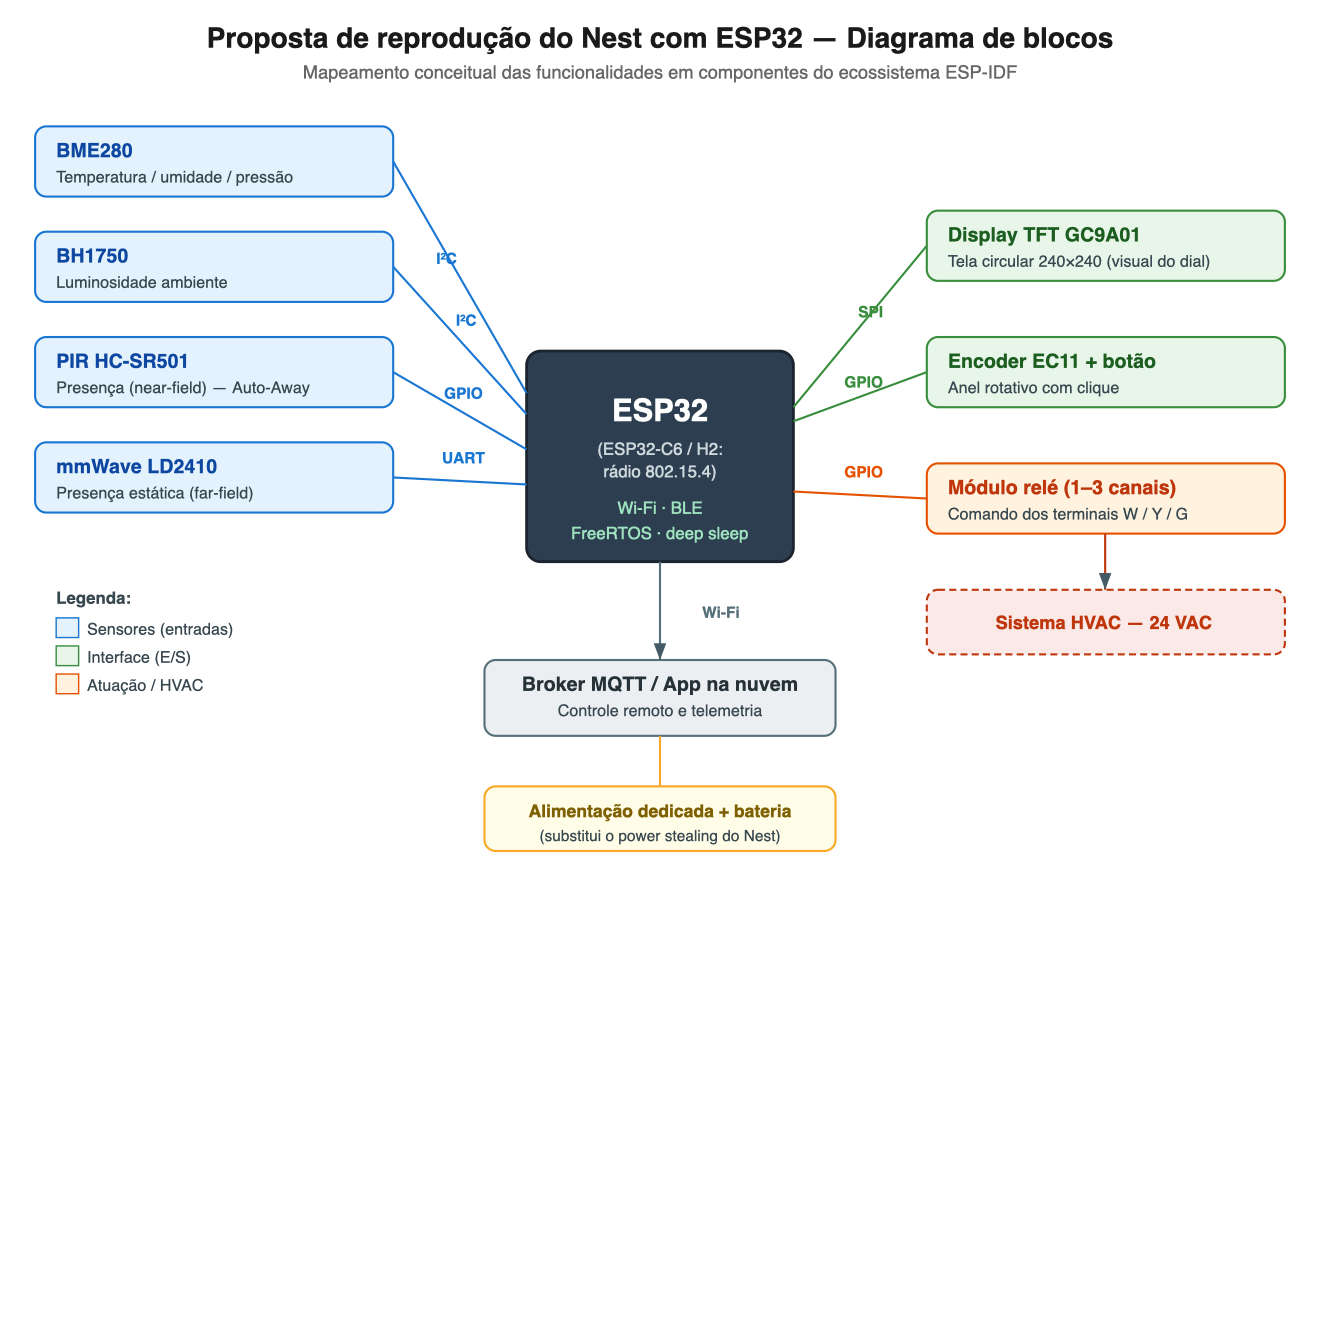
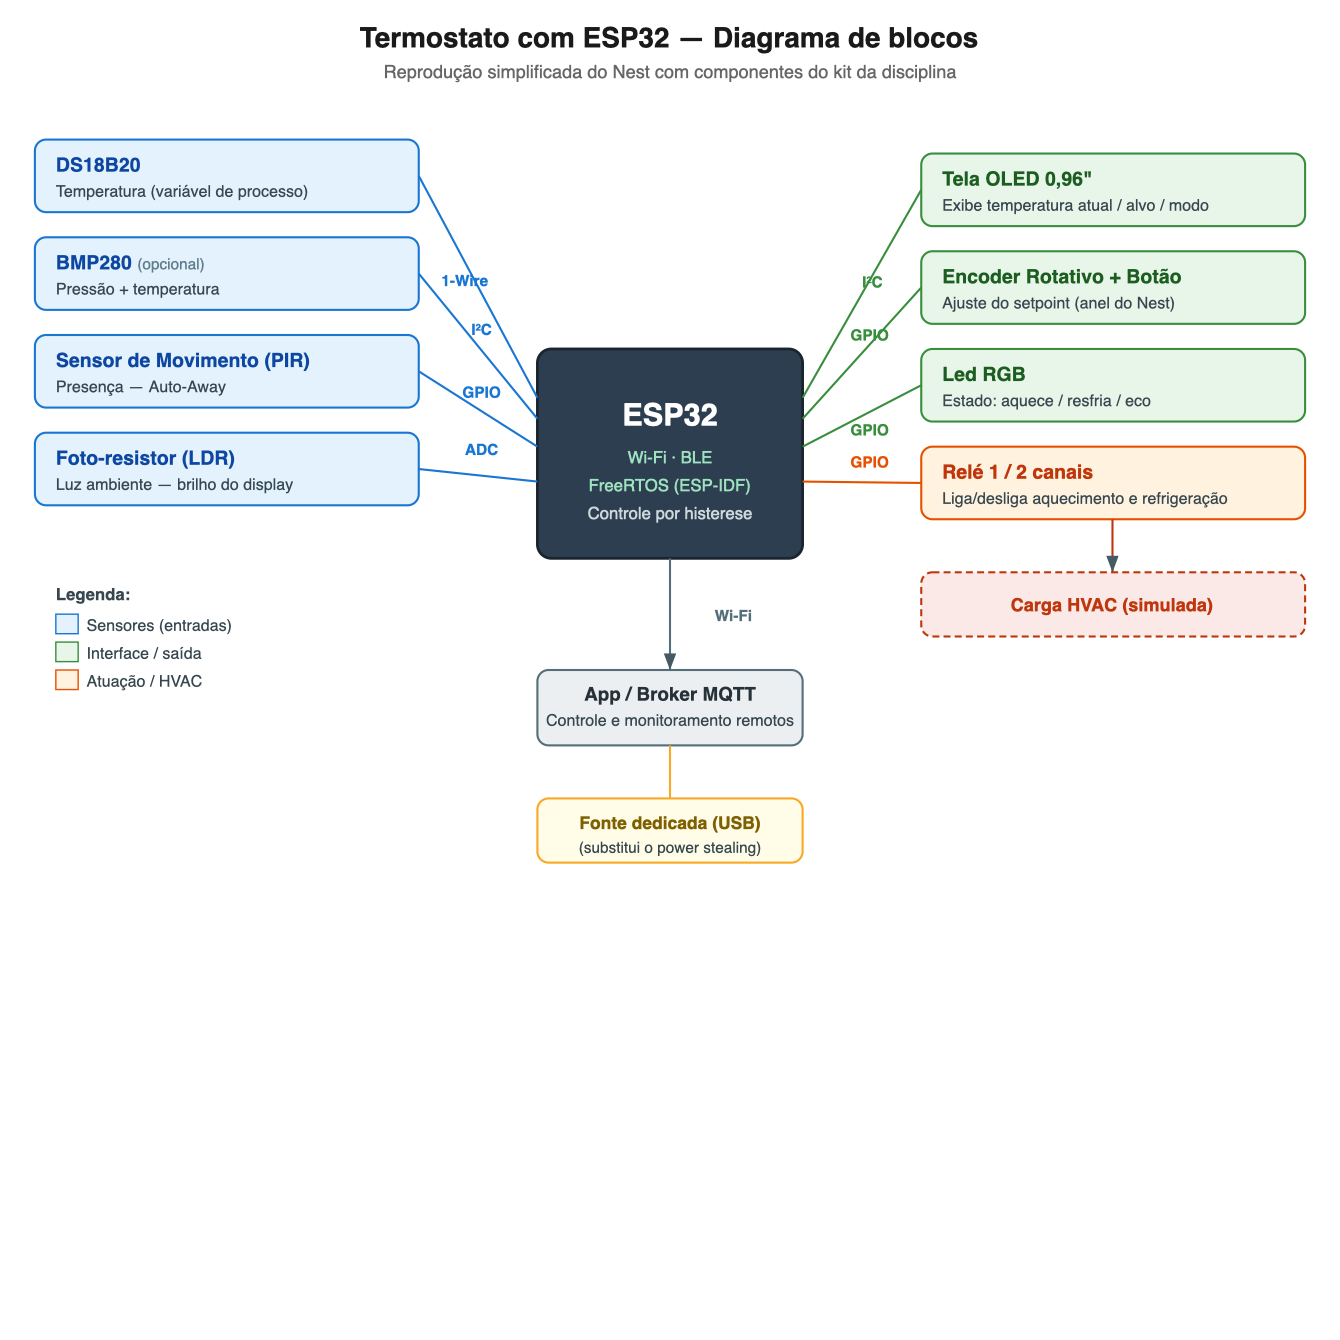
Readequa proposta ESP32 aos componentes do kit da disciplina
Substitui os componentes da Secao 3 pelos disponiveis na Lista de
Sensores do Trabalho (DS18B20, BMP280, encoder rotativo, OLED 0,96",
rele, PIR, LDR, LED RGB), adiciona a logica de funcionamento por
histerese/Auto-Away, atualiza o diagrama de blocos e os datasheets.

diff --git a/trabalho2/termostato-nest/README.md b/trabalho2/termostato-nest/README.md
@@ -116,35 +116,52 @@ A análise dos *teardowns* públicos (iFixit, SparkFun, IHS Markit) revela uma *
 
 ### Visão geral
 
-As funcionalidades centrais do Nest — sensoriamento ambiental, detecção de presença, interface por anel rotativo, controle do HVAC e conectividade — podem ser recriadas conceitualmente com uma **ESP32** e periféricos do ecossistema **ESP-IDF**.
+As funcionalidades centrais do Nest — leitura de temperatura, ajuste por anel rotativo, controle liga/desliga do HVAC, detecção de presença e conectividade — podem ser recriadas de forma **simples e funcional** com uma **ESP32** (ecossistema **ESP-IDF**) e componentes **disponíveis no laboratório da disciplina**. O objetivo não é copiar o Nest fielmente, mas reproduzir o seu comportamento essencial — um **termostato com setpoint, controle por histerese, modo de ausência e interface giratória** — com peças simples.
 
-### Mapeamento funcionalidade → componente
+> Todos os componentes da tabela abaixo pertencem à *Lista de Sensores e Atuadores* disponibilizada para o Trabalho.
 
-| Funcionalidade do Nest | Componente proposto (ESP32) | Observações |
-| --- | --- | --- |
-| Medição de temperatura/umidade | **BME280** ou **DHT22** | BME280 (I²C) também mede pressão; mais preciso |
-| Detecção de presença (*Auto-Away*) | **PIR HC-SR501** (near) + **sensor mmWave** (far-field, ex. LD2410) | mmWave detecta presença estática melhor que PIR |
-| Luminosidade ambiente | **BH1750** ou LDR | Ajuste de brilho do display |
-| Display circular | **TFT redondo GC9A01** (240×240, SPI) | Reproduz o visual do anel/dial do Nest |
-| Entrada por anel rotativo + clique | **Encoder rotativo EC11** com push-button | Equivalente ao anel girável com clique |
-| Controle do HVAC (24 VAC) | **Módulo relé** (1–3 canais) | Chaveia os terminais W/Y/G de forma isolada |
-| Conectividade com nuvem/app | **Wi-Fi nativo** + **MQTT** | App/painel via broker MQTT ou HTTP |
-| Malha de baixo consumo (ZigBee/Thread) | **ESP32-C6** ou **ESP32-H2** | Têm rádio 802.15.4 (Thread/Zigbee/Matter) nativo |
-| Economia de energia | **Deep sleep** + wake por sensor/touch | Análogo ao *power stealing* + gestão de energia |
-| Aprendizado de programação | Algoritmo em firmware; histórico em **NVS/SPIFFS** | Versão simplificada do *Learning* |
+### Mapeamento funcionalidade → componente (kit do laboratório)
+
+| Funcionalidade do Nest | Componente (lista da disciplina) | Barramento | Papel na reprodução |
+| --- | --- | --- | --- |
+| Medição de temperatura | **DS18B20** (temperatura digital) | 1-Wire (GPIO) | Variável de processo do controle; núcleo do termostato |
+| Medição complementar (clima) | **BMP280** (pressão + temperatura) | I²C | Opcional: redundância de temperatura e dado de pressão |
+| Ajuste do setpoint (anel girável) | **Encoder Rotativo + Botão** | GPIO | Gira para ajustar a temperatura-alvo; clique confirma/entra no menu — equivalente direto ao anel do Nest |
+| Exibição (temp. atual/alvo, estado) | **Tela OLED 0,96" (I²C)** | I²C | Substitui o display circular; mostra leitura, alvo e modo |
+| Acionamento do HVAC | **Relé de 1 ou 2 canais** | GPIO | Liga/desliga aquecimento (1 canal) ou aquecimento + refrigeração (2 canais) |
+| Detecção de presença (*Auto-Away*) | **Sensor de Movimento (PIR)** | GPIO | Sem movimento por X min → modo ausente (economia) |
+| Luminosidade ambiente | **Foto-resistor (LDR)** | ADC | Reduz brilho do display / "acorda" a tela ao aproximar |
+| Indicação visual de estado | **Led RGB** | GPIO/PWM | Vermelho = aquecendo · Azul = resfriando · Verde = eco (análogo ao *Nest Leaf*) |
+| Aviso sonoro (opcional) | **Buzzer Ativo** | GPIO | Confirmação de ajuste / alerta |
+| Conectividade com app/nuvem | **Wi-Fi nativo da ESP32** + **MQTT** | — | Ajuste e monitoramento remotos |
+| Agenda / "aprendizado" | Firmware + **NVS** (memória não volátil) | — | Versão simplificada: horários e último setpoint salvos |
+
+### Lógica de funcionamento (simplificada)
+
+1. O usuário gira o **encoder** para definir a **temperatura-alvo** (setpoint), exibida no **OLED**.
+2. A ESP32 lê a **temperatura** (DS18B20) periodicamente e aplica **controle por histerese**:
+   - se `T < setpoint − Δ` → aciona o **relé de aquecimento** (LED **vermelho**);
+   - se `T > setpoint + Δ` (modo refrigeração) → aciona o **relé de refrigeração** (LED **azul**);
+   - dentro da faixa → relés desligados (LED **verde**, estado eficiente).
+   A folga `Δ` (ex.: 0,5 °C) evita o chaveamento excessivo do relé.
+3. O **PIR** monitora presença: sem movimento por um tempo configurável, entra em **modo ausente** (*Auto-Away*), recuando o setpoint para economizar; ao detectar movimento, retorna ao normal.
+4. O **LDR** ajusta o brilho/ativação do display conforme a luz ambiente.
+5. Via **Wi-Fi/MQTT**, o setpoint e a temperatura atual podem ser lidos/alterados remotamente por um app ou painel.
+6. O **NVS** guarda o último setpoint e uma agenda simples (ex.: temperatura por período do dia), aproximando o *Learning* do Nest de forma elementar.
 
 ### Diagrama conceitual (blocos)
 
 ![Diagrama de blocos da arquitetura proposta com ESP32](imagens/diagrama-blocos.svg)
-> *Arquitetura conceitual: a ESP32 (ou ESP32-C6/H2, para rádio 802.15.4) centraliza a leitura dos sensores (BME280, BH1750, PIR e mmWave), a interface (display TFT circular + encoder rotativo), o acionamento do HVAC via relé e a conectividade Wi-Fi/MQTT com a nuvem. A barra horizontal de cada ligação indica o barramento utilizado (I²C, UART, SPI ou GPIO). (Versão em PNG disponível em `imagens/diagrama-blocos.png`.)*
+> *Arquitetura proposta com componentes do kit da disciplina: a ESP32 lê temperatura (DS18B20), presença (PIR) e luz (LDR), recebe o setpoint pelo encoder rotativo, exibe o estado no OLED, sinaliza pelo LED RGB e aciona o HVAC pelos relés, com controle remoto por Wi-Fi/MQTT. A etiqueta de cada ligação indica o barramento (1-Wire, I²C, ADC ou GPIO). (Versão em PNG em `imagens/diagrama-blocos.png`.)*
 
 ### Limitações e desafios esperados
 
-- **Power stealing:** captar energia da fiação 24 VAC do HVAC é complexo e arriscado; na prática usaríamos fonte dedicada.
-- **Compatibilidade HVAC:** sistemas reais têm múltiplos estágios (aquecimento/refrigeração, ventilador, bomba de calor) — exige cuidado com os terminais.
-- **Algoritmo de aprendizado:** reproduzir o *Learning* do Nest de forma robusta é não-trivial; faríamos uma versão simplificada (heurística/agenda).
-- **Sensor de presença:** PIR não detecta pessoas paradas; combinar com mmWave melhora o *Auto-Away*.
-- **Display e UX:** reproduzir a fluidez da interface do Nest exige otimização gráfica na ESP32.
+- **Umidade:** o Nest mede umidade, mas a lista da disciplina **não possui sensor de umidade ambiente** (há apenas chuva/gás); por isso a reprodução foca na **temperatura**, função primária do termostato. Um sensor de umidade poderia ser adicionado numa etapa futura.
+- **Carga real (HVAC):** o relé apenas **simula** o acionamento de aquecimento/refrigeração; conectar a um sistema HVAC real (24 VAC, múltiplos estágios) exige cuidado elétrico e foge ao escopo do protótipo.
+- **Power stealing:** o Nest capta energia da fiação do HVAC; aqui se usaria uma **fonte dedicada** (USB), por simplicidade e segurança.
+- **Detecção de presença:** o **PIR** não detecta pessoas **paradas**; mitiga-se com um *timeout* maior antes do *Auto-Away* (o Nest usa sensores adicionais para presença estática).
+- **Display e UX:** o **OLED 0,96"** é retangular e menor que o display circular do Nest — funcional para mostrar dados, sem reproduzir a estética do *dial*.
+- **"Aprendizado":** trata-se de uma **agenda simples** (histerese + horários salvos em NVS), não do algoritmo de aprendizado de máquina do Nest.
 
 ---
 
@@ -158,7 +175,7 @@ Temas alinhados às tecnologias críticas do Nest: comunicação mesh de baixo c
 
 **[1] Fafoutis, X. et al. (2016). "BLE or IEEE 802.15.4: Which Home IoT Communication Solution is more Energy-Efficient?"** *EAI Endorsed Transactions on the Internet of Things*, 2(5). DOI: 10.4108/eai.1-12-2016.151713.
 - **Tema:** rádio mesh / IEEE 802.15.4 vs BLE.
-- **Resumo e relação:** apresenta a primeira comparação da camada física de BLE e IEEE 802.15.4 em hardware idêntico, medindo consumo de energia e alcance, e indica em quais cenários cada padrão é mais eficiente. Relaciona-se diretamente ao Nest, que usa **IEEE 802.15.4 (ZigBee/Thread)** como rede de baixo consumo — ajuda a justificar a escolha de rádio na proposta com ESP32-C6/H2.
+- **Resumo e relação:** apresenta a primeira comparação da camada física de BLE e IEEE 802.15.4 em hardware idêntico, medindo consumo de energia e alcance, e indica em quais cenários cada padrão é mais eficiente. Relaciona-se diretamente ao Nest, que usa **IEEE 802.15.4 (ZigBee/Thread)** como rede de baixo consumo, e contextualiza os compromissos de energia entre os rádios de baixo consumo do produto.
 - **Link:** https://research-information.bris.ac.uk/en/publications/ble-or-ieee-802154-which-home-iot-communication-solution-is-more-/
 
 **[2] Santi, S.; Tian, L.; Khorov, E.; Famaey, J. (2019). "Accurate Energy Modeling and Characterization of IEEE 802.11ah RAW and TWT."** *Sensors*, 19(11), 2614. DOI: 10.3390/s19112614.
@@ -195,7 +212,7 @@ Temas alinhados às tecnologias críticas do Nest: comunicação mesh de baixo c
 
 **[8] Shokrollahi, A.; Persson, J. A.; Malekian, R.; Sarkheyli-Hägele, A.; Karlsson, F. (2024). "Passive Infrared Sensor-Based Occupancy Monitoring in Smart Buildings: A Review of Methodologies and Machine Learning Approaches."** *Sensors*, 24(5), 1533. DOI: 10.3390/s24051533.
 - **Tema:** detecção de ocupação com sensores PIR e aprendizado de máquina.
-- **Resumo e relação:** revisa (71 artigos, 2015–2023) o uso de sensores **PIR** para monitoramento de ocupação, contagem e localização de pessoas. Sustenta a escolha do PIR (e a combinação com mmWave) para reproduzir a detecção de presença do Nest na proposta ESP32.
+- **Resumo e relação:** revisa (71 artigos, 2015–2023) o uso de sensores **PIR** para monitoramento de ocupação, contagem e localização de pessoas. Sustenta a escolha do **Sensor de Movimento (PIR)** para reproduzir a detecção de presença / *Auto-Away* do Nest na proposta ESP32 e aponta suas limitações (presença estática).
 - **Link (PDF aberto):** https://www.mdpi.com/1424-8220/24/5/1533
 
 ---
@@ -249,7 +266,7 @@ Para situar o Nest no mercado, a tabela abaixo compara **seis termostatos inteli
 
 17. ESPRESSIF SYSTEMS. *ESP32 Series Datasheet*. Disponível em: https://www.espressif.com/sites/default/files/documentation/esp32_datasheet_en.pdf
 18. ESPRESSIF SYSTEMS. *ESP-IDF Programming Guide* (framework e FreeRTOS). Disponível em: https://docs.espressif.com/projects/esp-idf/en/latest/
-19. BOSCH SENSORTEC. *BME280 — Combined humidity and pressure sensor — Datasheet*. Disponível em: https://www.bosch-sensortec.com/media/boschsensortec/downloads/datasheets/bst-bme280-ds002.pdf
-20. ROHM SEMICONDUCTOR. *BH1750FVI — Digital 16-bit Serial Output Type Ambient Light Sensor IC — Datasheet*. (datasheet do fabricante ROHM)
-21. GALAXYCORE. *GC9A01 — Single Chip TFT-LCD Controller/Driver — Datasheet*. (display TFT circular 240×240)
-22. HI-LINK. *HLK-LD2410 — 24 GHz Human Presence Radar Sensor — Datasheet*. (sensor mmWave de presença)
+19. ANALOG DEVICES (MAXIM INTEGRATED). *DS18B20 — Programmable Resolution 1-Wire Digital Thermometer — Datasheet*. Disponível em: https://www.analog.com/media/en/technical-documentation/data-sheets/ds18b20.pdf
+20. BOSCH SENSORTEC. *BMP280 — Digital Pressure Sensor — Datasheet*. Disponível em: https://www.bosch-sensortec.com/media/boschsensortec/downloads/datasheets/bst-bmp280-ds001.pdf
+21. SOLOMON SYSTECH. *SSD1306 — 128×64 Dot Matrix OLED/PLED Segment/Common Driver — Datasheet* (controlador da tela OLED 0,96" I²C). (datasheet do fabricante Solomon Systech)
+22. HiLetgo / genérico. *Módulo Relé, Sensor de Movimento PIR (HC-SR501), Encoder Rotativo (KY-040) e LDR — folhas de dados dos módulos do kit.*